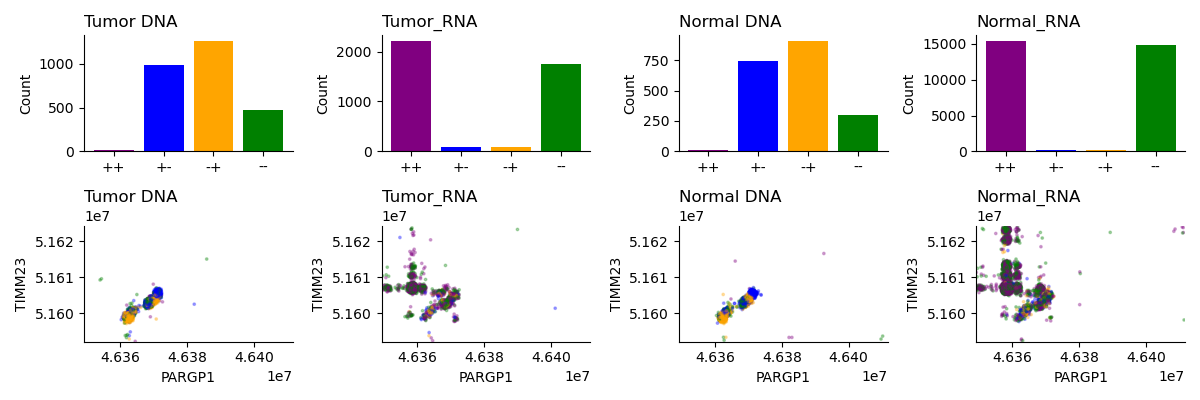
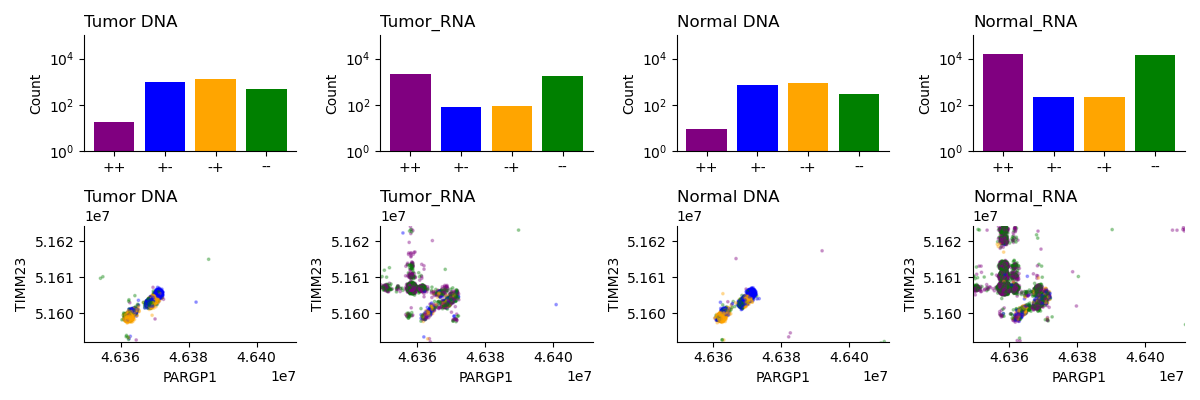
results: pargp1 timm23 investigation

diff --git a/results/2026_10-TIMM23-PARGP1-investigation/viz-breakpoint-strand.py b/results/2026_10-TIMM23-PARGP1-investigation/viz-breakpoint-strand.py
@@ -109,6 +109,8 @@ def main():
         ax[0,i].spines['top'].set_visible(False); ax[0,i].spines['right'].set_visible(False)
         ax[0,i].set_title(MODALITY2TITLE[modality], loc="left")
         ax[0,i].set_ylabel("Count")
+        ax[0,i].set_yscale('log')
+        ax[0,i].set_ylim(1,10**5)
         starts=[]
         ends=[]
         strand_syms=[]
